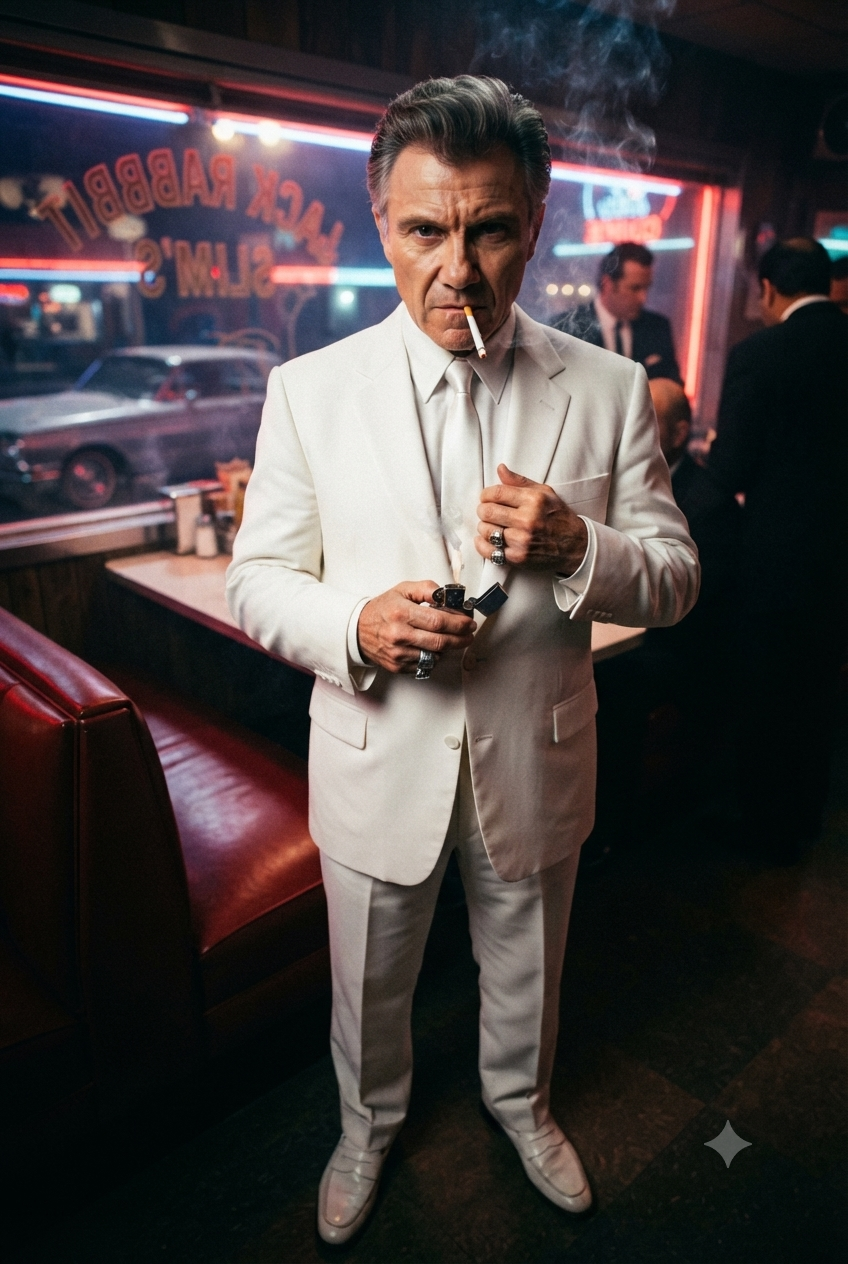
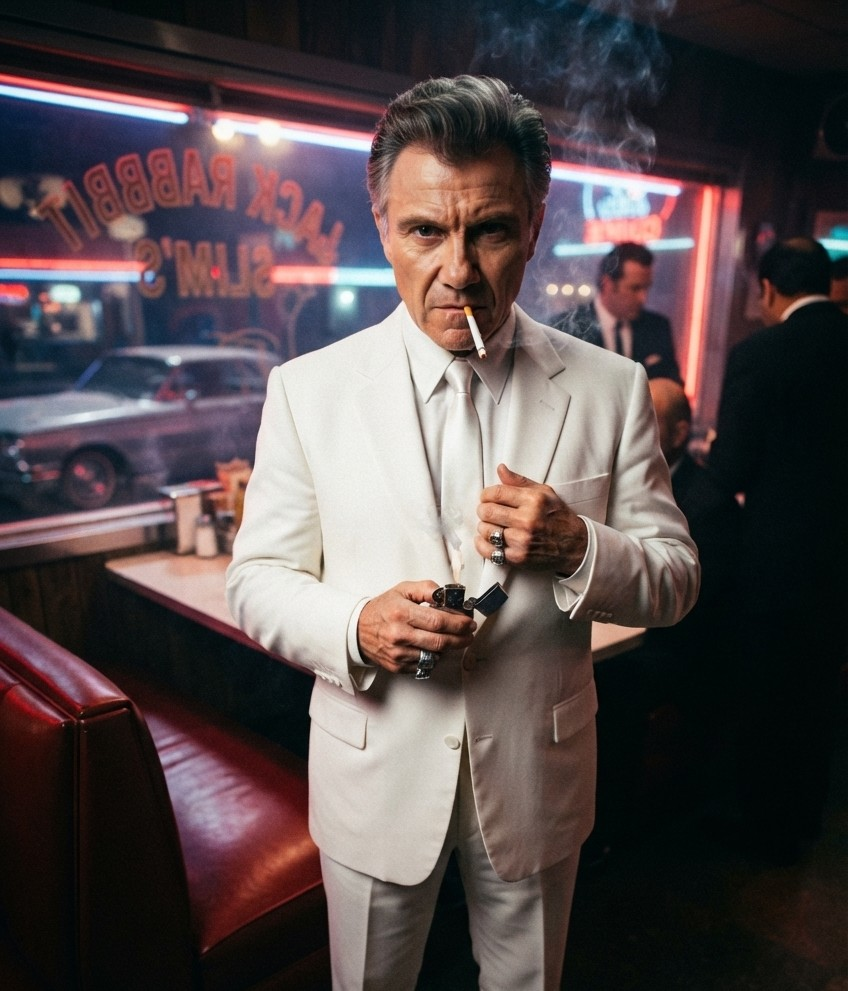
update 4.0

diff --git a/src/components/CharacterPage.jsx b/src/components/CharacterPage.jsx
@@ -60,27 +60,34 @@ export default function CharacterPage({ character }) {
 
       <div className="grid grid-cols-1 lg:grid-cols-[280px_1fr] gap-6 mb-8">
         {/* Photo placeholder — tilts gently toward the cursor, like a pinned evidence photo */}
-        <div
-          ref={photoRef}
-          onMouseMove={handlePhotoMove}
-          onMouseLeave={resetPhotoTilt}
-          style={{ transform: 'perspective(700px) rotateX(0deg) rotateY(0deg) scale(1)', transition: 'transform 0.15s ease-out' }}
-          className="aspect-[3/4] w-full max-w-[280px] bg-noir-panel border border-noir-border flex flex-col items-center justify-center gap-2 mx-auto lg:mx-0 shadow-[0_10px_30px_rgba(0,0,0,0.5)]"
-        >
-          {character.photoPlaceholder ? (
-            <img
-              src={character.photoPlaceholder}
-              alt={character.name}
-              className="w-full h-full object-cover pointer-events-none"
-            />
-          ) : (
-            <>
-              <User className="w-16 h-16 text-bone/20 pointer-events-none" strokeWidth={1} />
-              <span className="text-bone/30 text-xs font-body uppercase tracking-widest pointer-events-none">
-                Фото відсутнє
-              </span>
-            </>
-          )}
+        <div className="relative w-full max-w-[280px] mx-auto lg:mx-0">
+          <div
+            ref={photoRef}
+            onMouseMove={handlePhotoMove}
+            onMouseLeave={resetPhotoTilt}
+            style={{ transform: 'perspective(700px) rotateX(0deg) rotateY(0deg) scale(1)', transition: 'transform 0.15s ease-out' }}
+            className="aspect-[3/4] w-full bg-noir-panel border border-noir-border flex flex-col items-center justify-center gap-2 shadow-[0_10px_30px_rgba(0,0,0,0.5)]"
+          >
+            {character.photoPlaceholder ? (
+              <img
+                src={character.photoPlaceholder}
+                alt={character.name}
+                className="w-full h-full object-cover pointer-events-none"
+              />
+            ) : (
+              <>
+                <User className="w-16 h-16 text-bone/20 pointer-events-none" strokeWidth={1} />
+                <span className="text-bone/30 text-xs font-body uppercase tracking-widest pointer-events-none">
+                  Фото відсутнє
+                </span>
+              </>
+            )}
+          </div>
+
+          {/* Rubber-stamped case badge, pinned to the corner of the photo */}
+          <span className="case-stamp absolute -top-3 -right-3 px-2 py-1 text-[10px] sm:text-xs bg-noir-black/70 pointer-events-none select-none">
+            СПРАВА ВІДКРИТА
+          </span>
         </div>
 
         {/* Description */}

diff --git a/src/components/ResourceCounter.jsx b/src/components/ResourceCounter.jsx
@@ -1,3 +1,4 @@
+import { useEffect, useRef, useState } from 'react';
 import { Plus, Minus } from 'lucide-react';
 import Icon from './IconMap';
 
@@ -5,6 +6,21 @@ export default function ResourceCounter({ resource, onChange }) {
   const { label, icon, value, min = 0, max = 999 } = resource;
 
   const clamp = (v) => Math.min(max, Math.max(min, v));
+
+  // Brief color pulse whenever the value changes, green for a gain, red
+  // for a loss — tactile feedback instead of the number just silently
+  // updating. Skips the pulse on first mount.
+  const prevValue = useRef(value);
+  const [pulse, setPulse] = useState(null);
+  useEffect(() => {
+    if (prevValue.current !== value) {
+      setPulse(value > prevValue.current ? 'up' : 'down');
+      prevValue.current = value;
+      const id = setTimeout(() => setPulse(null), 350);
+      return () => clearTimeout(id);
+    }
+    return undefined;
+  }, [value]);
 
   return (
     <div className="flex items-center justify-between gap-3 bg-noir-panel-2 border border-noir-border px-4 py-3">
@@ -23,7 +39,15 @@ export default function ResourceCounter({ resource, onChange }) {
         >
           <Minus className="w-4 h-4" />
         </button>
-        <span className="font-display text-2xl w-10 text-center text-bone tabular-nums">
+        <span
+          className={`font-display text-2xl w-10 text-center tabular-nums transition-all duration-200 ${
+            pulse === 'up'
+              ? 'text-green-400 scale-125'
+              : pulse === 'down'
+                ? 'text-crimson-light scale-125'
+                : 'text-bone scale-100'
+          }`}
+        >
           {value}
         </span>
         <button

diff --git a/src/index.css b/src/index.css
@@ -113,13 +113,35 @@ body {
   animation: neon-flicker 6s linear infinite;
 }
 
+/* Page-switch entrance — fresh fade/rise each time App swaps the active page */
+@keyframes page-in {
+  0% { opacity: 0; transform: translateY(10px); }
+  100% { opacity: 1; transform: translateY(0); }
+}
+.animate-page-in {
+  animation: page-in 0.35s ease-out;
+}
+
+/* Rotated "case stamp" badge — rubber-stamped case-file look */
+.case-stamp {
+  transform: rotate(-9deg);
+  border: 3px solid var(--color-crimson);
+  color: var(--color-crimson-light);
+  font-family: var(--font-display);
+  letter-spacing: 0.12em;
+  opacity: 0.85;
+  mix-blend-mode: screen;
+  box-shadow: 0 0 0 2px rgba(185, 28, 43, 0.15) inset;
+}
+
 /* Respect reduced-motion preferences and save battery on phones */
 @media (prefers-reduced-motion: reduce) {
   .animate-vignette-breathe,
   .animate-ember-rise,
   .animate-spotlight-sweep,
   .neon-flicker,
-  .animate-dice-spin {
+  .animate-dice-spin,
+  .animate-page-in {
     animation: none !important;
   }
 }

diff --git a/src/components/DiceRoller.jsx b/src/components/DiceRoller.jsx
@@ -1,3 +1,4 @@
+import { useEffect, useState } from 'react';
 import { Dices } from 'lucide-react';
 import { useDice } from '../context/DiceContext';
 
@@ -9,6 +10,21 @@ import { useDice } from '../context/DiceContext';
  */
 export default function DiceRoller() {
   const { lastRoll, rolling, history, rollDice } = useDice();
+
+  // While the dice context is "rolling", flash rapid random numbers —
+  // a little slot-machine flourish before the real result lands. Purely
+  // a display-layer effect; the actual rolled value still comes from
+  // DiceContext once and only once.
+  const [flash, setFlash] = useState(null);
+  useEffect(() => {
+    if (!rolling) return undefined;
+    const id = setInterval(() => {
+      setFlash(Math.floor(Math.random() * 100) + 1);
+    }, 45);
+    return () => clearInterval(id);
+  }, [rolling]);
+
+  const displayValue = rolling ? flash ?? '--' : lastRoll === null ? '--' : lastRoll;
 
   return (
     <div
@@ -36,11 +52,11 @@ export default function DiceRoller() {
             Кубик
           </span>
           <span
-            className={`font-display text-3xl sm:text-4xl leading-none text-crimson-light ${
-              rolling ? 'animate-dice-spin' : ''
+            className={`font-display text-3xl sm:text-4xl leading-none text-crimson-light tabular-nums ${
+              rolling ? 'blur-[0.5px]' : ''
             }`}
           >
-            {lastRoll === null ? '--' : lastRoll}
+            {displayValue}
           </span>
         </div>
 

diff --git a/src/App.jsx b/src/App.jsx
@@ -96,9 +96,11 @@ export default function App() {
           )}
         </nav>
 
-        {/* Active page */}
+        {/* Active page — fades/slides in fresh on every switch */}
         <main className="flex-1">
-          <ActiveComponent key={active.id} />
+          <div key={active.id} className="animate-page-in">
+            <ActiveComponent />
+          </div>
         </main>
 
         {/* Global dice roller — visible on every page except the Gallery */}